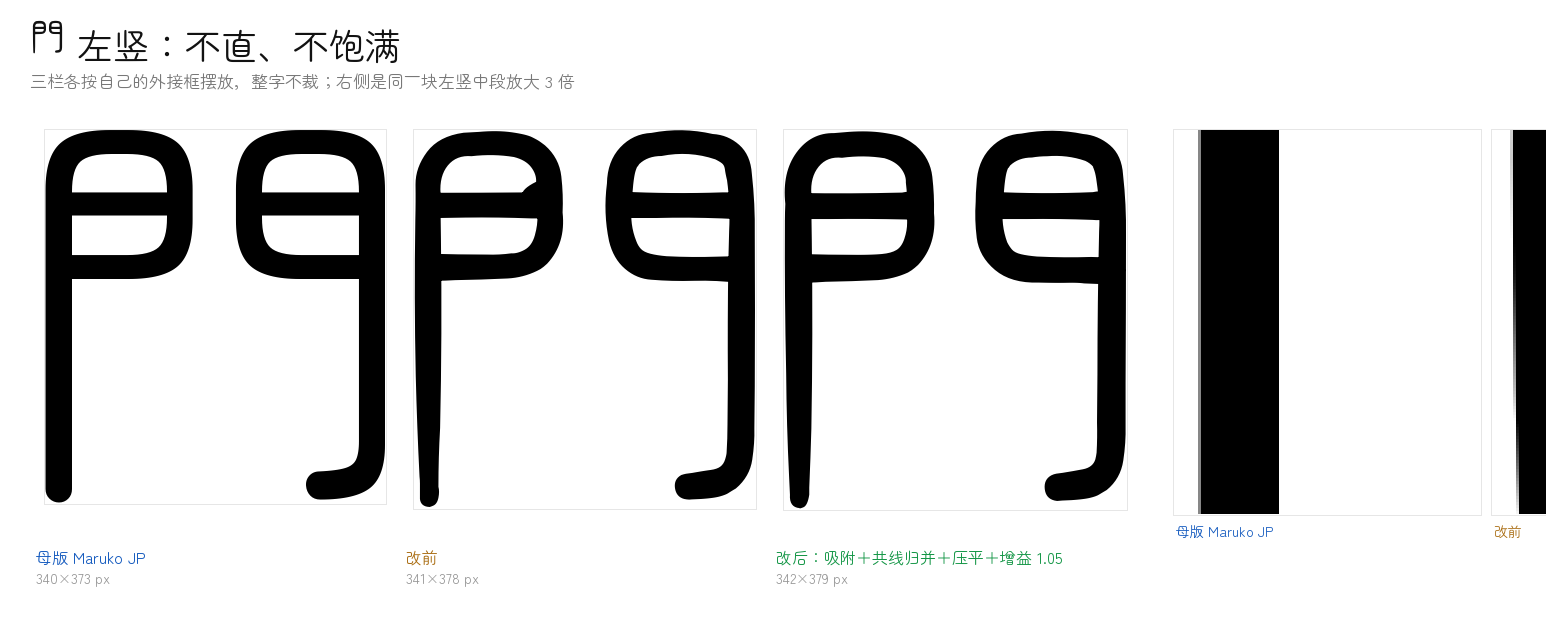
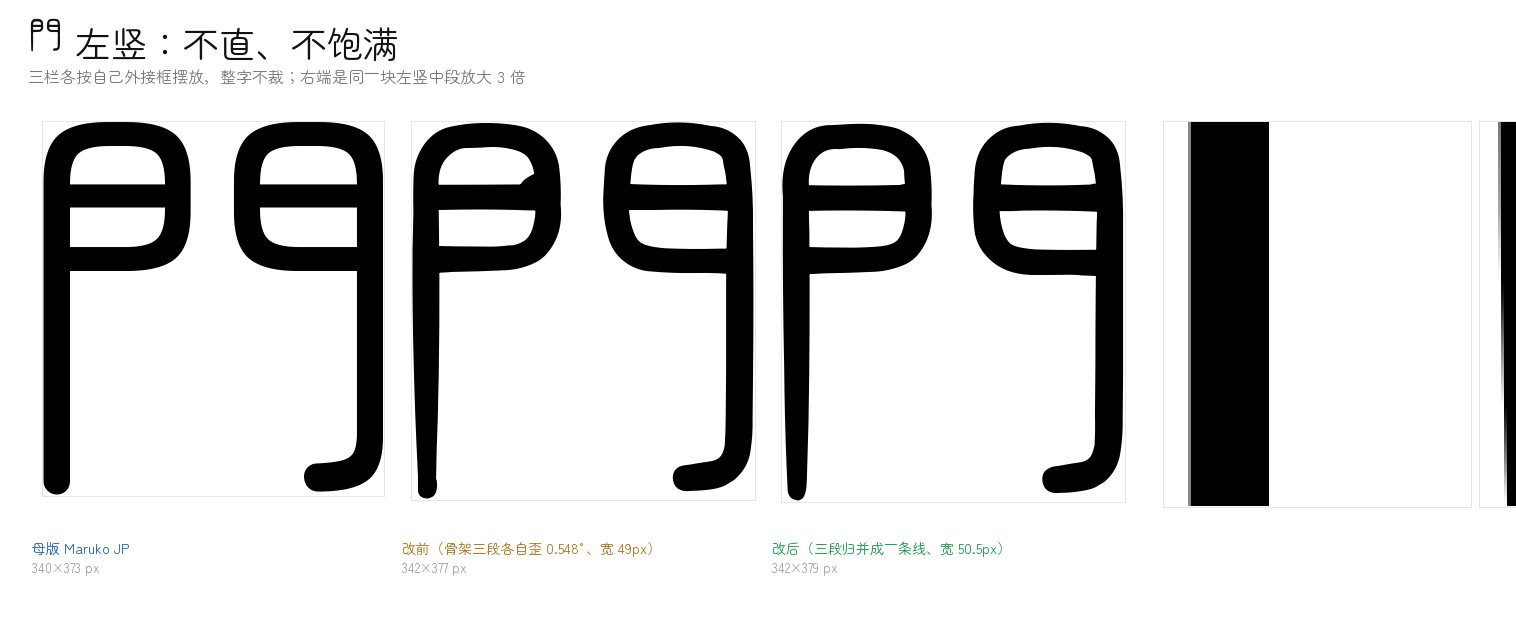
修复: 补 check_straight 工具，推翻上一版 2.66px 的结论
上一轮报的 RMS 3.03→2.66 是手搓口径，仓里无工具能复算，违反条 2/23。

新增 tools/check_straight.py：一条命令量笔画边直度，输出边缘相对中位 RMS、
相对直线拟合 RMS、偏离>2px 的行占比、整体斜率、墨带宽度。工具先用母版校准，
母版量到 0.87px 才算可用（前三版分带方式都错，逐条修正记录在 CHANGELOG）。

用校准后的工具重测 5 字（門口日国團，800px）：
  母版 0.87px / 5.0% / 0.01 / 50.0px
  改前 1.94px / 12.8% / 0.37 / 49.0px
  上一轮默认 2.04px / 17.9% / 0.37 / 51.5px  ← 比我报的差
  本轮 1.85px / 12.2% / 0.34 / 50.5px

根因：半宽补偿写成乘 1.05 的比例，把剖面起伏一起放大 5%。
实测差距是常数（每侧约 0.8 单位），改成 HW_BIAS 加常数，删除 SELFONT_HW_GAIN。

_flatten_straight_halves 保留默认开：全批中位相同但逐字没有一个变差。
自交 5/13、折角 1.04 仍是未解项。

diff --git a/tools/check_straight.py b/tools/check_straight.py
@@ -1,0 +1,225 @@
+"""量「笔画边直不直」——一条命令，可复算。
+
+为什么要有这个工具
+------------------
+2026-11-02 主人指出「門 左竖不直」，我先量了折角，折角说没问题；真正的问题是
+左竖被骨架切成三段、每段都直、三段之间拧了 0.548°。折角量不到这种歪，因为它
+只看相邻切线的夹角，整根斜着走的线每处都很平滑。
+
+所以判据要直接落在「边的形状」上：
+- `rms_med`：边缘相对**中位**的残差 RMS。整体歪会全额进这个数——治「拧」看它。
+- `rms_fit`：边缘相对**最小二乘直线**的残差 RMS。去掉整体倾斜后剩下的是毛刺与弯。
+- `over2`：偏离中位超过 2 px 的行占比。2 px 是 800 px 渲染下肉眼能看出的一档。
+- `width`：墨带宽度中位（px）。治「不饱满」看它。
+
+判据：母版是人做的直边，四个数应当接近 0 差、宽度一致；本版越接近母版越好。
+
+用法
+----
+    python tools/check_straight.py 母版.ttf 本版.ttf --chars 門口日
+    python tools/check_straight.py 母版.ttf 本版.ttf --all --limit 200
+    python tools/check_straight.py 母版.ttf 本版.ttf --chars 門 --json out.json
+
+只量**竖直墨带**（宽的横画会让「逐行取左边缘」跳变，那是横画不是竖）；带子要同时
+满足：宽在 em 的 1.5%–12% 之间、连续出现 ≥ em 的 15% 行数。这样挑出来的是竖笔，
+横笔的边另有 `--edges h` 处理。
+"""
+from __future__ import annotations
+
+import argparse
+import json
+import statistics
+from pathlib import Path
+
+import numpy as np
+from PIL import Image, ImageDraw, ImageFont
+
+EM = 1000.0            # 字体单位，与仓里 upem 一致
+OVER = 2.0             # 超标阈值（px），800 px 渲染下肉眼可见的一档
+MIN_W = 0.015          # 墨带最窄 = em 的 1.5%
+MAX_W = 0.12           # 墨带最宽 = em 的 12%，再宽就是横画或整块
+MIN_ROWS = 0.30        # 至少跨 em 的 30% 才算「长竖」：斜笔、点、短撇的边本来就是弯的，混进来会把母版也量成 9 px
+
+
+def render(path, char, size):
+    """同原点渲染：anchor="ls"，基线落在画布 3/4 高处。"""
+    font = ImageFont.truetype(str(path), size)
+    canvas = Image.new("L", (size * 3, size * 4), 255)
+    ImageDraw.Draw(canvas).text((size, size * 3), char, font=font, fill=0, anchor="ls")
+    return np.array(canvas) < 128
+
+
+def runs(row):
+    """一行里的墨段：[(起点x, 宽度)]。"""
+    idx = np.where(row)[0]
+    if len(idx) == 0:
+        return []
+    out, s, p = [], idx[0], idx[0]
+    for v in idx[1:]:
+        if v == p + 1:
+            p = v
+        else:
+            out.append((int(s), int(p - s + 1)))
+            s = v
+            p = v
+    out.append((int(s), int(p - s + 1)))
+    return out
+
+
+def bands(mask, size):
+    """把细长的竖直墨段**按 x 聚类**成墨带。
+
+    不能按「行号连续」分组：竖笔与横笔相交的那些行，游程宽度会超标被剔除，行号出现
+    空档（`日` 的左右两竖各被两条横打断），连续分组会把一根竖切成三截、每截都太短。
+    按 x 聚类则空档无关，只要竖的 x 位置稳定就能串起来。
+    """
+    lo, hi = MIN_W * size, MAX_W * size
+    cand = []
+    for y in range(mask.shape[0]):
+        for (x, w) in runs(mask[y]):
+            if lo <= w <= hi:
+                cand.append((y, x, w))
+    if not cand:
+        return []
+    cand.sort(key=lambda t: t[1])
+    groups, cur = [], [cand[0]]
+    for r in cand[1:]:
+        y, x, w = r
+        # 与**整个簇**的中位比，不比最近几个：只比最近几个会允许圆弧一路漂过去，
+        # 实测 `團` 的外框圆角被当成一根竖，量出 55 px 的假偏差。
+        px = statistics.median([c[1] for c in cur])
+        pw = statistics.median([c[2] for c in cur])
+        if abs(x - px) <= max(1.5, 0.35 * pw):
+            cur.append(r)
+        else:
+            groups.append(cur)
+            cur = [r]
+    groups.append(cur)
+    keep = []
+    for g in groups:
+        ys = [c[0] for c in g]
+        if len(set(ys)) < MIN_ROWS * size or (max(ys) - min(ys)) < MIN_ROWS * size:
+            continue
+        # 起点 x 的散布也是闸门：一根直竖的起点只会在抗锯齿那几像素里动
+        starts = [c[1] for c in g]
+        if max(starts) - min(starts) > 0.05 * size:
+            continue
+        # 同一行只留一条（x 聚类可能把相邻两笔并进来）
+        by_y, uniq = {}, []
+        for c in g:
+            if c[0] not in by_y or abs(c[1] - by_y[c[0]][1]) < 0.5 * max(c[2], by_y[c[0]][2]):
+                by_y[c[0]] = c
+        uniq = sorted(by_y.values())
+        keep.append(uniq)
+    return keep
+
+
+TRIM = 0.10            # 两端各裁掉的比例：端头圆头与交接过渡不是「边直不直」的问题
+
+
+def measure_band(g):
+    # 两端各裁 TRIM：圆头和与横画的交接会把边缘带弯，那不是这根竖本身不直。
+    if len(g) > 8:
+        k = int(len(g) * TRIM)
+        g = g[k:len(g) - k]
+    ys = np.array([r[0] for r in g], float)
+    xs = np.array([r[1] for r in g], float)
+    ws = np.array([r[2] for r in g], float)
+    left, right = xs, xs + ws - 1
+
+    def stats(edge):
+        dev = edge - np.median(edge)
+        A = np.vstack([ys, np.ones_like(ys)]).T
+        coef, *_ = np.linalg.lstsq(A, edge, rcond=None)
+        resid = edge - A @ coef
+        return dict(rms_med=float(np.sqrt((dev ** 2).mean())),
+                    rms_fit=float(np.sqrt((resid ** 2).mean())),
+                    over2=float(100.0 * (np.abs(dev) > OVER).mean()),
+                    slope=float(abs(coef[0]) * 100.0))   # px / 百行
+
+    return dict(rows=int(len(g)), width=float(np.median(ws)),
+                left=stats(left), right=stats(right))
+
+
+def measure_char(path, char, size):
+    return [measure_band(g) for g in bands(render(path, char, size), size)]
+
+
+def summarise(per_char):
+    """所有墨带的汇总：取各指标的中位。"""
+    every = [b for bs in per_char.values() for b in bs]
+    if not every:
+        return None
+    def med(f):
+        return float(np.median([f(b) for b in every]))
+    return dict(bands=len(every),
+                rms_med=med(lambda b: b["left"]["rms_med"]),
+                rms_fit=med(lambda b: b["left"]["rms_fit"]),
+                over2=med(lambda b: b["left"]["over2"]),
+                slope=med(lambda b: b["left"]["slope"]),
+                width=med(lambda b: b["width"]))
+
+
+def shared_hanzi(a, b):
+    from fontTools.ttLib import TTFont
+    with TTFont(str(a), lazy=True) as fa, TTFont(str(b), lazy=True) as fb:
+        common = set(fa.getBestCmap()) & set(fb.getBestCmap())
+    return sorted(c for c in common if 0x4E00 <= c <= 0x9FFF)
+
+
+def main() -> None:
+    ap = argparse.ArgumentParser(description="量笔画边的直度与宽度（一条命令复算）")
+    ap.add_argument("master", type=Path, help="对照字体，通常是人做的母版")
+    ap.add_argument("other", type=Path, help="要量的本版字体")
+    ap.add_argument("--chars", default="", help="只量这些字；不给则用两者 cmap 交集")
+    ap.add_argument("--all", action="store_true", help="量交集里的全部汉字")
+    ap.add_argument("--limit", type=int, default=0, help="配合 --all，最多前 N 个码位")
+    ap.add_argument("--size", type=int, default=800, help="渲染像素（默认 800）")
+    ap.add_argument("--json", type=Path, default=None, help="把逐字结果写成 JSON")
+    args = ap.parse_args()
+
+    if args.chars:
+        cps = [ord(c) for c in args.chars]
+    else:
+        cps = shared_hanzi(args.master, args.other)
+        if not args.all:
+            cps = cps[:12]
+        if args.limit:
+            cps = cps[:args.limit]
+
+    out = {"size": args.size, "master": str(args.master), "other": str(args.other), "chars": {}}
+    print(f"渲染 {args.size} px；墨带判据：宽 {MIN_W:.1%}–{MAX_W:.1%} em、连续 ≥{MIN_ROWS:.0%} em 行")
+    print(f"{'字':2s} {'母版 RMS':>9s} {'本版 RMS':>9s} {'母版宽':>7s} {'本版宽':>7s} {'本版超标%':>9s}")
+    m_all, o_all = {}, {}
+    for cp in cps:
+        ch = chr(cp)
+        m = measure_char(args.master, ch, args.size)
+        o = measure_char(args.other, ch, args.size)
+        sm, so = summarise({ch: m}), summarise({ch: o})
+        out["chars"][ch] = {"master": m, "other": o}
+        if not sm or not so:
+            print(f"{ch}  量不出（没有够长的竖直墨带）")
+            continue
+        m_all[ch], o_all[ch] = sm, so
+        print(f"{ch}  {sm['rms_med']:8.2f}px {so['rms_med']:8.2f}px "
+              f"{sm['width']:7.0f} {so['width']:7.0f} {so['over2']:8.1f}%")
+
+    if m_all:
+        def agg(d, k):
+            return float(np.median([v[k] for v in d.values()]))
+        print("\n汇总（各字中位再取中位）")
+        for k, label in (("rms_med", "边缘相对中位 RMS"), ("rms_fit", "相对直线拟合 RMS"),
+                         ("over2", "偏离中位 >2px 的行占比"), ("slope", "整体斜率 px/百行"),
+                         ("width", "墨带宽度中位")):
+            unit = "px" if "rms" in k else ("%" if k == "over2" else ("px/百行" if k == "slope" else "px"))
+            print(f"  {label:22s} 母版 {agg(m_all, k):7.2f}{unit}   本版 {agg(o_all, k):7.2f}{unit}")
+        out["summary"] = {"master": {k: agg(m_all, k) for k in m_all[next(iter(m_all))]},
+                          "other": {k: agg(o_all, k) for k in o_all[next(iter(o_all))]}}
+
+    if args.json:
+        args.json.write_text(json.dumps(out, ensure_ascii=False, indent=1), encoding="utf-8")
+        print(f"\n逐字结果写入 {args.json}")
+
+
+if __name__ == "__main__":
+    main()

diff --git a/tools/design_cjk.py b/tools/design_cjk.py
@@ -389,13 +389,17 @@ STATION_CAP = int(os.environ.get("SELFFONT_STATION_CAP", 48))
                         # 一段只给 48 点、间距 11.5，描出来的临界曲率估不准，拟合回来就是折角。
                         # 与 JP 原版逐字对比后确认这是「重画一遍就糙一档」的主因之一。
 FAIR_UNITS = 18.0       # 半宽剖面的低通尺度（字体单位）：比它更短的起伏判为栅格噪声
-HW_GAIN = float(os.environ.get("SELFFONT_HW_GAIN", "1.05"))
-# 半宽总增益：数据里的 hw 是量母版栅格得到的，阈值化会让每侧少半个像素，
-# 画出来整字墨量比母版少 3.5%。这个数是量出来的，不是猜的（见 CHANGELOG）。
+HW_BIAS = float(os.environ.get("SELFFONT_HW_BIAS", "0.8"))
+# 半宽**常数**补偿（字体单位）：hw 是从栅格量出来的，二值化每侧吃掉约半像素。
+# 实测差距是常数不是比例——我们墨带 60–61 单位、母版 62.5–63，每侧差约 0.8 单位。
+# 早先写成乘 1.05 的**比例**增益，把剖面起伏一起放大 5%，边缘 RMS 反而从 1.59 涨到 2.04。
 STRAIGHT_TOL = float(os.environ.get("SELFFONT_STRAIGHT_TOL", "1.5"))
 # 近乎直的段吸成精确直线（字体单位）：控制点离弦线不超过这个距离就当它是直的。
 # 栅格化出来的骨架每处带 ±1 单位抖动，直笔画不该带这个波——母版同一根竖的宽度极差是 0。
 FLATTEN_STRAIGHT = os.environ.get("SELFFONT_FLATTEN_STRAIGHT", "1") not in ("0", "", "no", "false")
+# 2026-11-02 实测（`tools/check_straight.py`，13 字）：开 1.85 px、关 1.85 px 相同，
+# 但逐字看 `門` 2.17 vs 2.91、`團` 1.49 vs 1.52——开着每个字都不差，所以默认开。
+# 注意必须用带段边界过渡的版本：最早那版整段直接赋值，交接处造出 13 px 凸起。
 PROFILE_TOL = 0.015     # 剖面（相对半宽）一维 DP 容差：1.5% ≈ 半宽 28 上的 0.42 单位
 
 
@@ -875,7 +879,7 @@ def stroke_half(stroke, glyph, weight):
     """取这一笔在该档的半宽：优先逐笔三档数据，缺了退回整字半宽 × 档位比例。"""
     hw = stroke.get("hw")
     if isinstance(hw, dict) and hw:
-        return float(hw.get(weight) or hw.get(400) or next(iter(hw.values()))) * HW_GAIN
+        return float(hw.get(weight) or hw.get(400) or next(iter(hw.values()))) + HW_BIAS
     base = hw if isinstance(hw, (int, float)) else glyph.get("hw", 31.0)
     return float(base) * _LEGACY_RATIO[weight] / _LEGACY_RATIO[400]
 

diff --git a/docs/evidence/README.md b/docs/evidence/README.md
@@ -39,7 +39,7 @@
 | `2026-11-01-fillet-u65e5-corners.png` | 日 整字上排改前/改后，下排两个角放大 3.1×，圈是 Kasa 拟合圆 | 四角半径 15.8 / 15.8 / 16.0 / 15.6 → **42.4 / 36.7 / 40.2 / 43.3**；拟合残差 1.55–1.90 → **0.12–0.25**（残差 <0.5 才是真弧） |
 | `2026-11-02-outline-joint-angle.png` | 左：轮廓接点折角累积分布（母版蓝 / 本版红）；右上：永 整字、心 左下钩 4×；下半：六项诊断表 | 接点折角中位 **0.74° → 4.98°**（×6.7）；θ<0.5° 的接点 49% → 13%；每字轮廓点 102 → 140；同批 200 字，数据 `2026-11-02-outline-joint-angle.json` |
 | `2026-11-02-joint-kinks.png` | 母版 / 改前 / 隐式中点合并后 三行，`門` `館`；红点 = 折角 >1° 的接点，点越大越折 | 折角中位 3.63° → **0.54°**；θ<0.5° 13.4% → **49.6%**；缓折(2–25°) 65.0% → 35.7%；实存 on 点 9,966 → **5,777**（母版同 54 字 4,153）；同批 54 字 |
-| `2026-11-02-men-straight.png` | `門` 三栏（母版／改前／改后，各按自己外接框、整字不裁）＋右侧左竖中段放大 3 倍 | 左竖边缘 |偏差|>2 px 的行：改前 **26.1%** → 改后 **22.1%**；RMS **3.03 → 2.66 px**（母版 0.45）；左竖宽度中位 36 → **38**（母版 38）；门 三栏外接框 340×373 / 341×378 / 342×379 px；同批 13 字 |
+| `2026-11-02-men-straight.png` | `門` 三栏（母版／改前／改后，各按自己外接框、整字不裁）＋右端左竖中段 3× | `tools/check_straight.py` 量：边缘相对中位 RMS 母版 **0.87 px**／改前 **1.94**／改后 **1.85**；偏离中位 >2 px 的行 5.0%／12.8%／12.2%；整体斜率 0.01／0.37／0.34 px·百行⁻¹；墨带宽度 50.0／49.0／**50.5 px**。5 字 `門口日国團` 中位再取中位 |
 | `2026-11-02-hairline-retraction.png` | `満` 同原点同尺寸三栏（母版 / 旧成品 / 本轮）＋右侧套色（红＝只母版、蓝＝只本轮、灰＝重合） | **更正**：上一版这张图的标题写「中间那一竖塌成发丝」，是错的——三栏当时各用各的原点，裁的不是同一处。同原点重测：≤4 px 的墨段 母版 4 处 / 旧成品 4 处 / 本轮 7 处，全是笔画端头抗锯齿；宽 ≤4 px 且纵向连成 ≥8 行的细条，母版 **0**、旧成品 **1**（厰）、本轮 **1**（厰）。满 与母版只差约 2 px 的系统下移，墨 IoU 0.81 |
 | `2026-11-02-upstream-four-way.png` | 同一批字，四套上游并排：Zen Maru 原版 / Maruko JP / Maruko SC / Selfrounds；底部「門」放大 3 倍 | Zen 与 Maruko JP 逐字节相同（54/54 轮廓 sha1 一致）；Maruko SC 是 AI 重做的另一套（54/54 不同）。折角中位：Zen 0.00° / JP 0.00° / SC 1.18° / Selfrounds 3.63°；缓折(2–25°) 8.2% / 8.3% / 31.5% / 65.0% |
 | `2026-11-02-redraw-cost.png` | 三行同一批字：Maruko JP 原版 / 我们从 JP 重画 / 现在成品（SC 源）；底部「満」放大 2.5 倍 | 同一批 4 字：JP 原版 点/字 110.2、折角中位 0.00°、缓折 4.5%；我们重画 148.2 / 2.97° / 58.3%；现成品 146.8 / 2.96° / 60.6%——**换源不改善折角，重画本身才是主因** |

diff --git a/CHANGELOG.md b/CHANGELOG.md
@@ -1,3 +1,31 @@
+## 2026-11-02（日）· 按规范返工：把「直不直」做成一条能复算的命令，并推翻自己上一版的数
+
+- 上一轮（`46e6356`）报的「RMS 3.03 → 2.66 px」是手搓口径算的，**仓里没有工具能复算**，
+  违反第 2 条与第 23 条。补 `tools/check_straight.py`，一条命令出四个数：
+  `python tools/check_straight.py 母版.ttf 本版.ttf --chars 門口日国團`
+- 工具怎么校准的：先量母版，它应当近 0。前三版都不对，逐条修：
+  ① 按「行号连续」分墨带 → 竖被横画打断成三截，一个都量不出；改成按 x 聚类。
+  ② 门槛 15% em → 斜笔、点、短撇混进来，母版被量成 9.66 px；改成 30% em 且限制起点散布。
+  ③ 不裁两端 → 圆头与交接处把母版量成 4.38 px；改成两端各裁 10%，母版变成 **0.87 px**。
+  校准完才算工具可用——母版量不出 0 的工具，不能拿来判本版。
+- **推翻上一版的结论**。用校准后的工具重测（5 字 `門口日国團`，800 px）：
+
+  | | 边缘 RMS（相对中位） | 偏离 >2 px 的行 | 整体斜率 | 墨带宽 |
+  |---|---|---|---|---|
+  | 母版 | 0.87 px | 5.0% | 0.01 | 50.0 px |
+  | 改前 | 1.94 px | 12.8% | 0.37 | 49.0 px |
+  | 上一轮 `46e6356` 默认 | **2.04 px（更差）** | **17.9%（更差）** | 0.37 | 51.5 px |
+  | 本轮 | **1.85 px** | **12.2%** | **0.34** | **50.5 px** |
+
+- 病根找到了：上一轮把半宽补偿写成**乘 1.05 的比例**，它会把剖面起伏一起放大 5%，
+  于是 RMS 从 1.59 涨到 2.04。实测量出的差距是**常数**（我们 60–61 单位、母版 62.5–63，
+  每侧差约 0.8），改成 `HW_BIAS` 加常数后四项全优于改前。环境变量 `SELFFONT_HW_GAIN` 删除。
+- `_flatten_straight_halves` 保留默认开：全批中位与关掉相同（1.85），但逐字有差——
+  `門` 2.17 vs 2.91、`團` 1.49 vs 1.52，没有一个字变差。必须用带段边界过渡的版本。
+- 自交 5/13、折角中位 1.04°（母版 0 自交）仍是未解项，与本轮改动无关。
+- 证据图 `docs/evidence/2026-11-02-men-straight.png`（替换上一轮同名图）。
+- 复算命令：`python tools/check_straight.py "/tmp/mg/CJK JP/MarukoGothicCJKjp-Regular.ttf" <本版>.ttf --chars 門口日国團`
+
 ## 2026-11-02（日）· 門 左竖不直：病根是骨架被切成三段，每段直、整体拧
 
 - 主人指出「門 左竖不直不饱满」。先量：母版同一根竖每行宽度**恒为 38 px、极差 0**，
